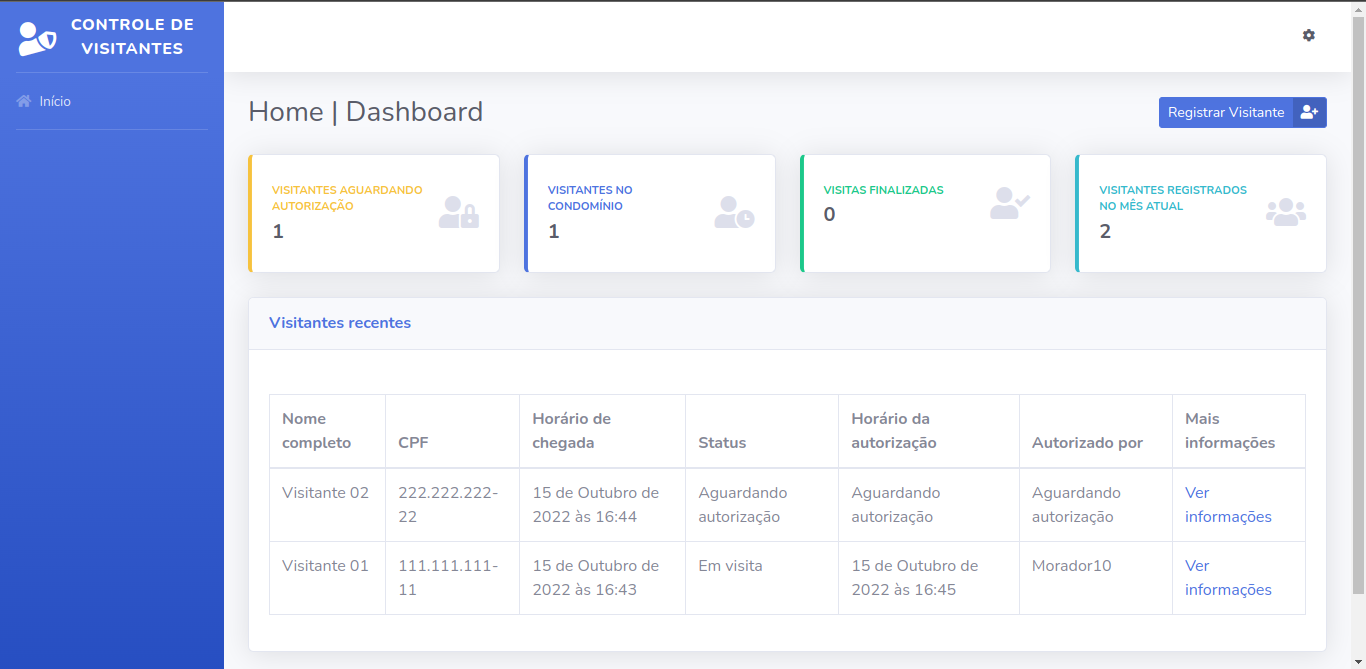
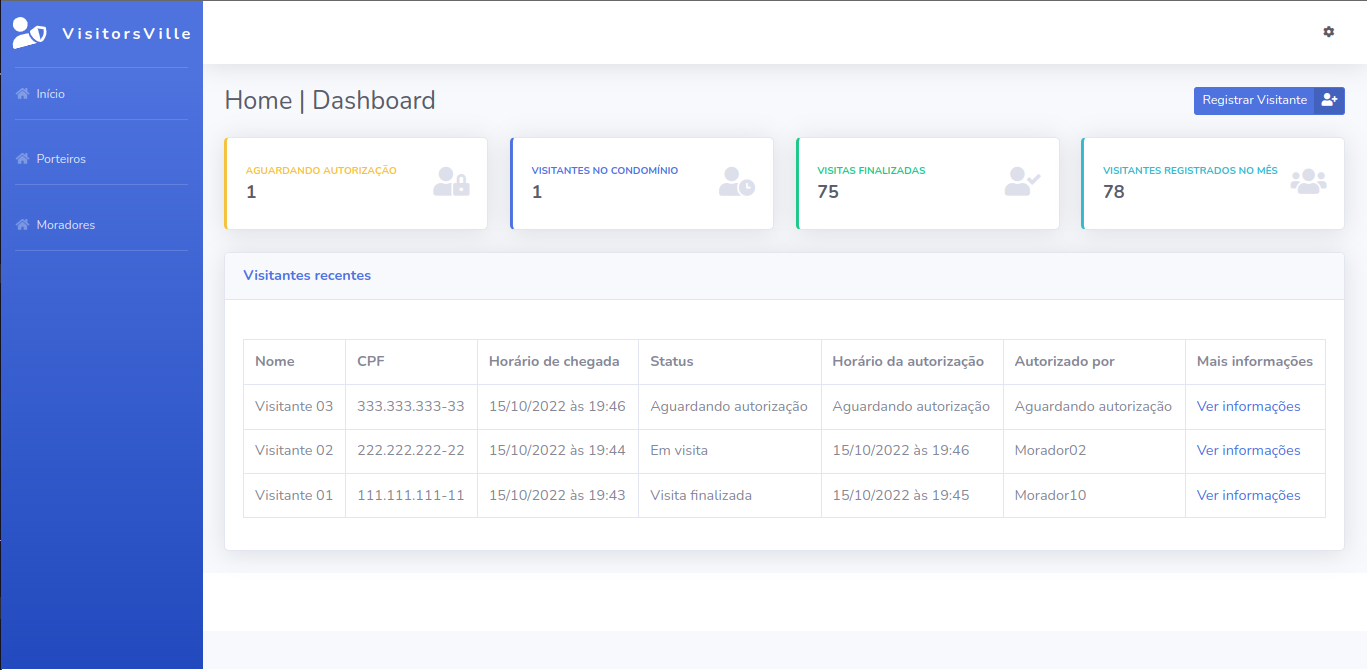
(#003) interface adjustments

diff --git a/templates/index.html b/templates/index.html
@@ -30,8 +30,8 @@
                 <div class="card-body">
                     <div class="row no-gutters align-items-center">
                         <div class="col mr-2">
-                            <div class="text-xs font-weight-bold text-warning text-uppercase mb-1">Visitantes aguardando autorização</div>
-                            <div class="h5 mb-0 font-weight-bold text-gray-800">{{ visitor_waiting }}</div>
+                            <div class="text-xs font-weight-bold text-warning text-uppercase mb-1">Aguardando autorização</div>
+                            <div class="h5 mb-0 font-weight-bold text-gray-800">1</div>
                         </div>
                         
                         <div class="col-auto">
@@ -48,7 +48,7 @@
                     <div class="row no-gutters align-items-center">
                         <div class="col mr-2">
                             <div class="text-xs font-weight-bold text-primary text-uppercase mb-1">Visitantes no condomínio</div>
-                            <div class="h5 mb-0 font-weight-bold text-gray-800">{{ visitor_in_visit }}</div>
+                            <div class="h5 mb-0 font-weight-bold text-gray-800">1</div>
                         </div>
                         
                         <div class="col-auto">
@@ -65,7 +65,7 @@
                     <div class="row no-gutters align-items-center">
                         <div class="col mr-2">
                             <div class="text-xs font-weight-bold text-success text-uppercase mb-1">Visitas finalizadas</div>
-                            <div class="h5 mb-0 font-weight-bold text-gray-800">{{ visit_finished }}</div>
+                            <div class="h5 mb-0 font-weight-bold text-gray-800">75</div>
                         </div>
                         <div class="col-auto">
                             <i class="fas fa-user-check fa-2x text-gray-300"></i>
@@ -80,8 +80,8 @@
                 <div class="card-body">
                     <div class="row no-gutters align-items-center">
                         <div class="col mr-2">
-                            <div class="text-xs font-weight-bold text-info text-uppercase mb-1">Visitantes registrados no mês atual</div>
-                            <div class="h5 mb-0 font-weight-bold text-gray-800">{{ visitors_in_month }}</div>
+                            <div class="text-xs font-weight-bold text-info text-uppercase mb-1">Visitantes registrados no mês</div>
+                            <div class="h5 mb-0 font-weight-bold text-gray-800">78</div>
                         </div>
                         <div class="col-auto">
                             <i class="fas fa-users fa-2x text-gray-300"></i>
@@ -115,7 +115,7 @@
                         <tr>
                             <td> {{ visitor.personal_name }}</td>
                             <td> {{ visitor.get_cpf }} </td>
-                            <td> {{ visitor.arrival_time }} </td>
+                            <td> {{ visitor.format_arrival_time}} </td>
                             <td> {{ visitor.get_status_display }}</td>
                             <td> {{ visitor.get_authorization_time}}</td>
                             <td> {{ visitor.get_resident_who_authorized }}</td>

diff --git a/templates/base.html b/templates/base.html
@@ -21,13 +21,13 @@
     <body id="page-top">
         <div id="wrapper">
             <ul class="navbar-nav bg-gradient-primary sidebar sidebar-dark accordion" id="accordionSidebar">
-                <a class="content-logo" href="#">
+                <div class="content-logo">
                     <div class="rotate-n-15 svg-logo-icon">
                         <img src="{% static 'img/user-shield-solid.svg' %}" alt="Logo Site">
                     </div>
                     
                     <div class="title-logo"><span>V</span>isitors<span>V</span>ille</div>
-                </a>
+                </div>
                 
                 <hr class="sidebar-divider my-0">
                 
@@ -37,10 +37,20 @@
                         <span>Início</span>
                     </a>
                 </li>
+                <hr class="sidebar-divider">
                 <li class="nav-item">
                     <a class="nav-link" href="#">
-                        <i class="fa-regular fa-user-police"></i>
+                        <i class="fas fa-home"></i>
+                        {% comment %} <img id="#" src="{% static 'img/user-shield-solid.svg' %}" alt="" > {% endcomment %}
                         <span>Porteiros</span>
+                    </a>
+                </li>
+                <hr class="sidebar-divider">
+                <li class="nav-item">
+                    <a class="nav-link" href="#">
+                        <i class="fas fa-home"></i>
+                        {% comment %} <img id="#" src="{% static 'img/user-shield-solid.svg' %}" alt="" > {% endcomment %}
+                        <span>Moradores</span>
                     </a>
                 </li>
                 

diff --git a/static/css/extra.css b/static/css/extra.css
@@ -23,9 +23,6 @@
 
     font-size: large;
     letter-spacing: 0.2rem;
-
 }
 
-.title-logo span{
-    color: rgb(230, 221, 96);
-}
+

diff --git a/apps/visitors/models.py b/apps/visitors/models.py
@@ -85,7 +85,7 @@ class Visitor(models.Model):
     
     def get_authorization_time(self):
         if self.authorization_time:
-            return self.authorization_time
+            return self.format_authorization_time()
         
         return "Aguardando autorização"
     
@@ -113,6 +113,20 @@ class Visitor(models.Model):
             cpf_format = f"{cpf_part_1}.{cpf_part_2}.{cpf_part_3}-{cpf_part_4}"
             
             return cpf_format
+    
+    def format_arrival_time(self):
+        format_date = self.arrival_time
+
+        format_date = f"{self.arrival_time.day}/{self.arrival_time.month}/{self.arrival_time.year} às {self.arrival_time.hour}:{self.arrival_time.minute}"
+
+        return format_date
+
+    def format_authorization_time(self):
+        format_date = self.authorization_time
+
+        format_date = f"{self.authorization_time.day}/{self.authorization_time.month}/{self.authorization_time.year} às {self.authorization_time.hour}:{self.authorization_time.minute}"
+
+        return format_date
 
     class Meta:
         verbose_name = "Visitante"

diff --git a/README.md b/README.md
@@ -1,13 +1,13 @@
-# Dashboard - Visitor Control
+# VisitorsVille
 
 <div align="center">
   <img width="900px" height="400px" src="/documentation/readme/assets/mainpicture.png"/><center>
 <div/>
 
-<div align="left">
+<div align="justify">
   <h3>:computer: Sobre</h3>
-  Um projeto desenvolvida durante um minicurso de Django promovido pelo <a href="https://gist.github.com/tchaguitos"/>Thiago Brasil<a>. A aplicação consiste em um dashboard para a administração de visitantes em um condomínio. Em resumo, resgistrar os dados dos(as) visitantes assim como horário de entrada e sáida, bem como o porteiro que o registrou e o morador que permitiu sua entrada
-  
+  Um dashboard focado no controle de visitas para condomínios. Um projeto desenvolvida durante um minicurso de Django promovido pelo <a href="https://gist.github.com/tchaguitos"/>Thiago Brasil<a>. Em resumo, em posse dos porteiros, é possível resgistrar os dados dos(as) visitantes assim como horário de entrada e sáida, bem como o porteiro que o registrou e o morador que permitiu sua entrada, para melhor controle e segurança.
+
 
 ## :rocket: Stack utilizada
 
@@ -17,3 +17,4 @@
 
 ##
 <h6>:key: Para que a aplicação funcione em sua máquina, deve-se configurar as variáveis de ambiente SECRET_KEY e DEBUG referentes ao arquivo settings.py. Para isso configura no seu ambiente virtual um .env seguindo o arquivo <a href="project/.env.example">.env.example<a>  </h6>
+</div>
